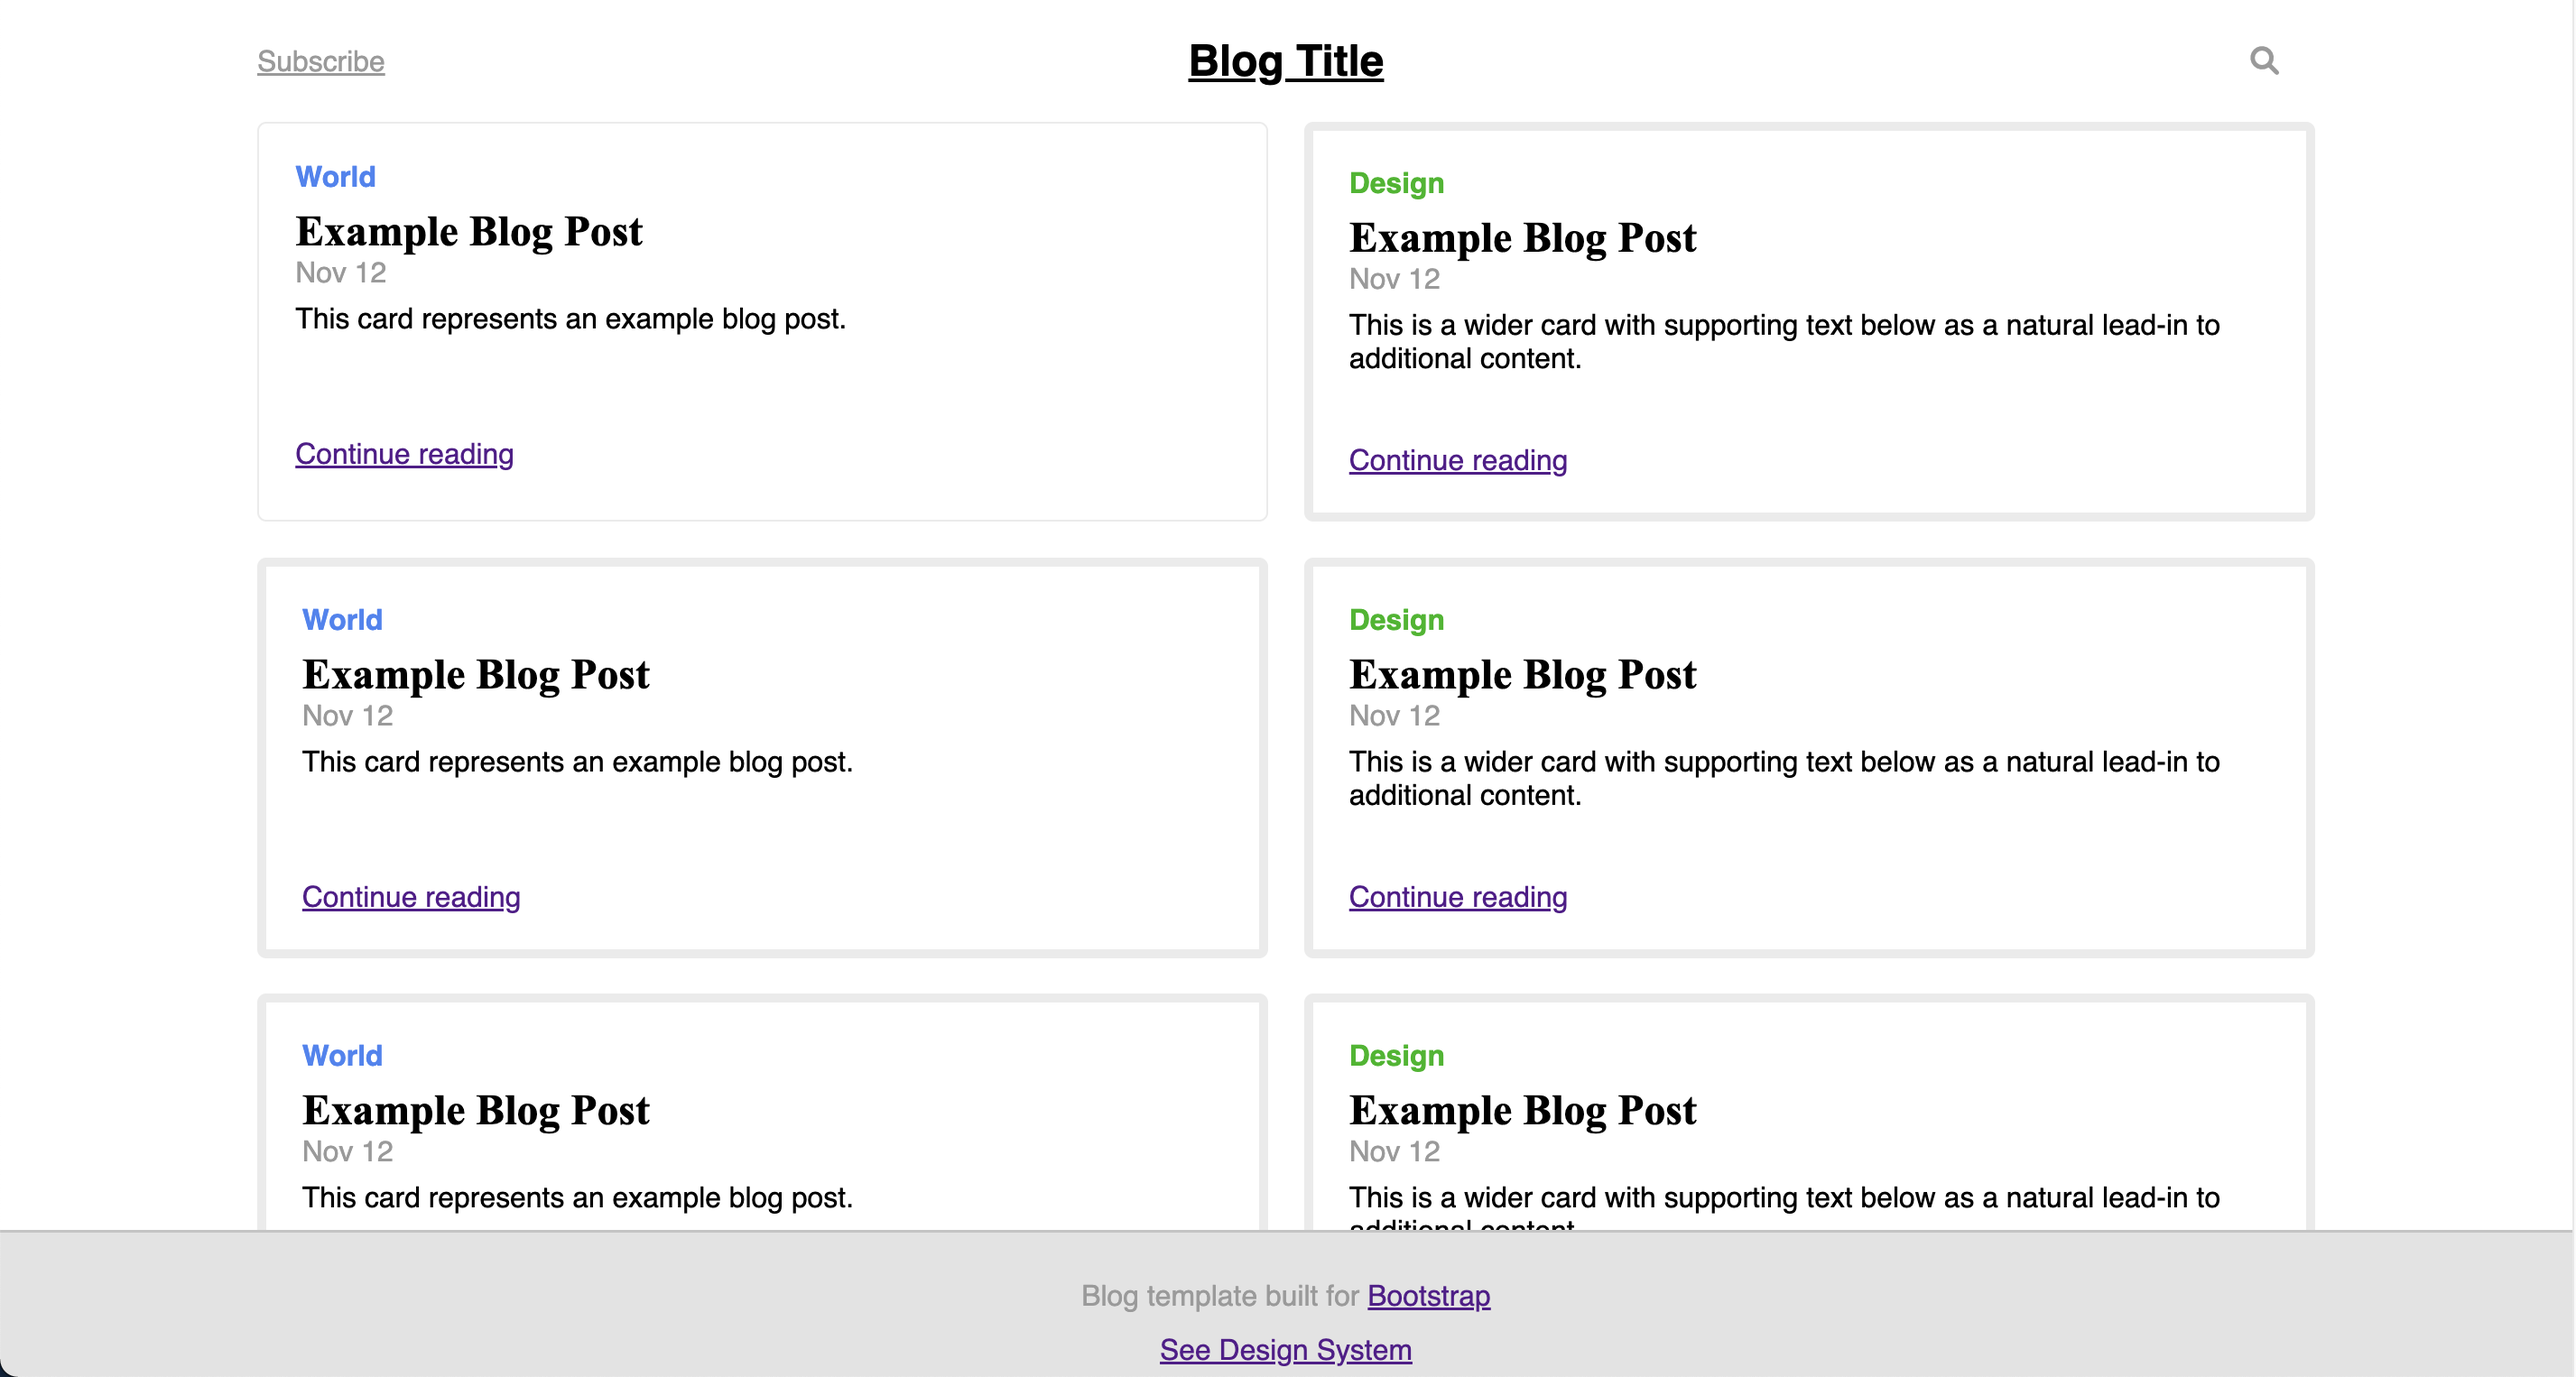
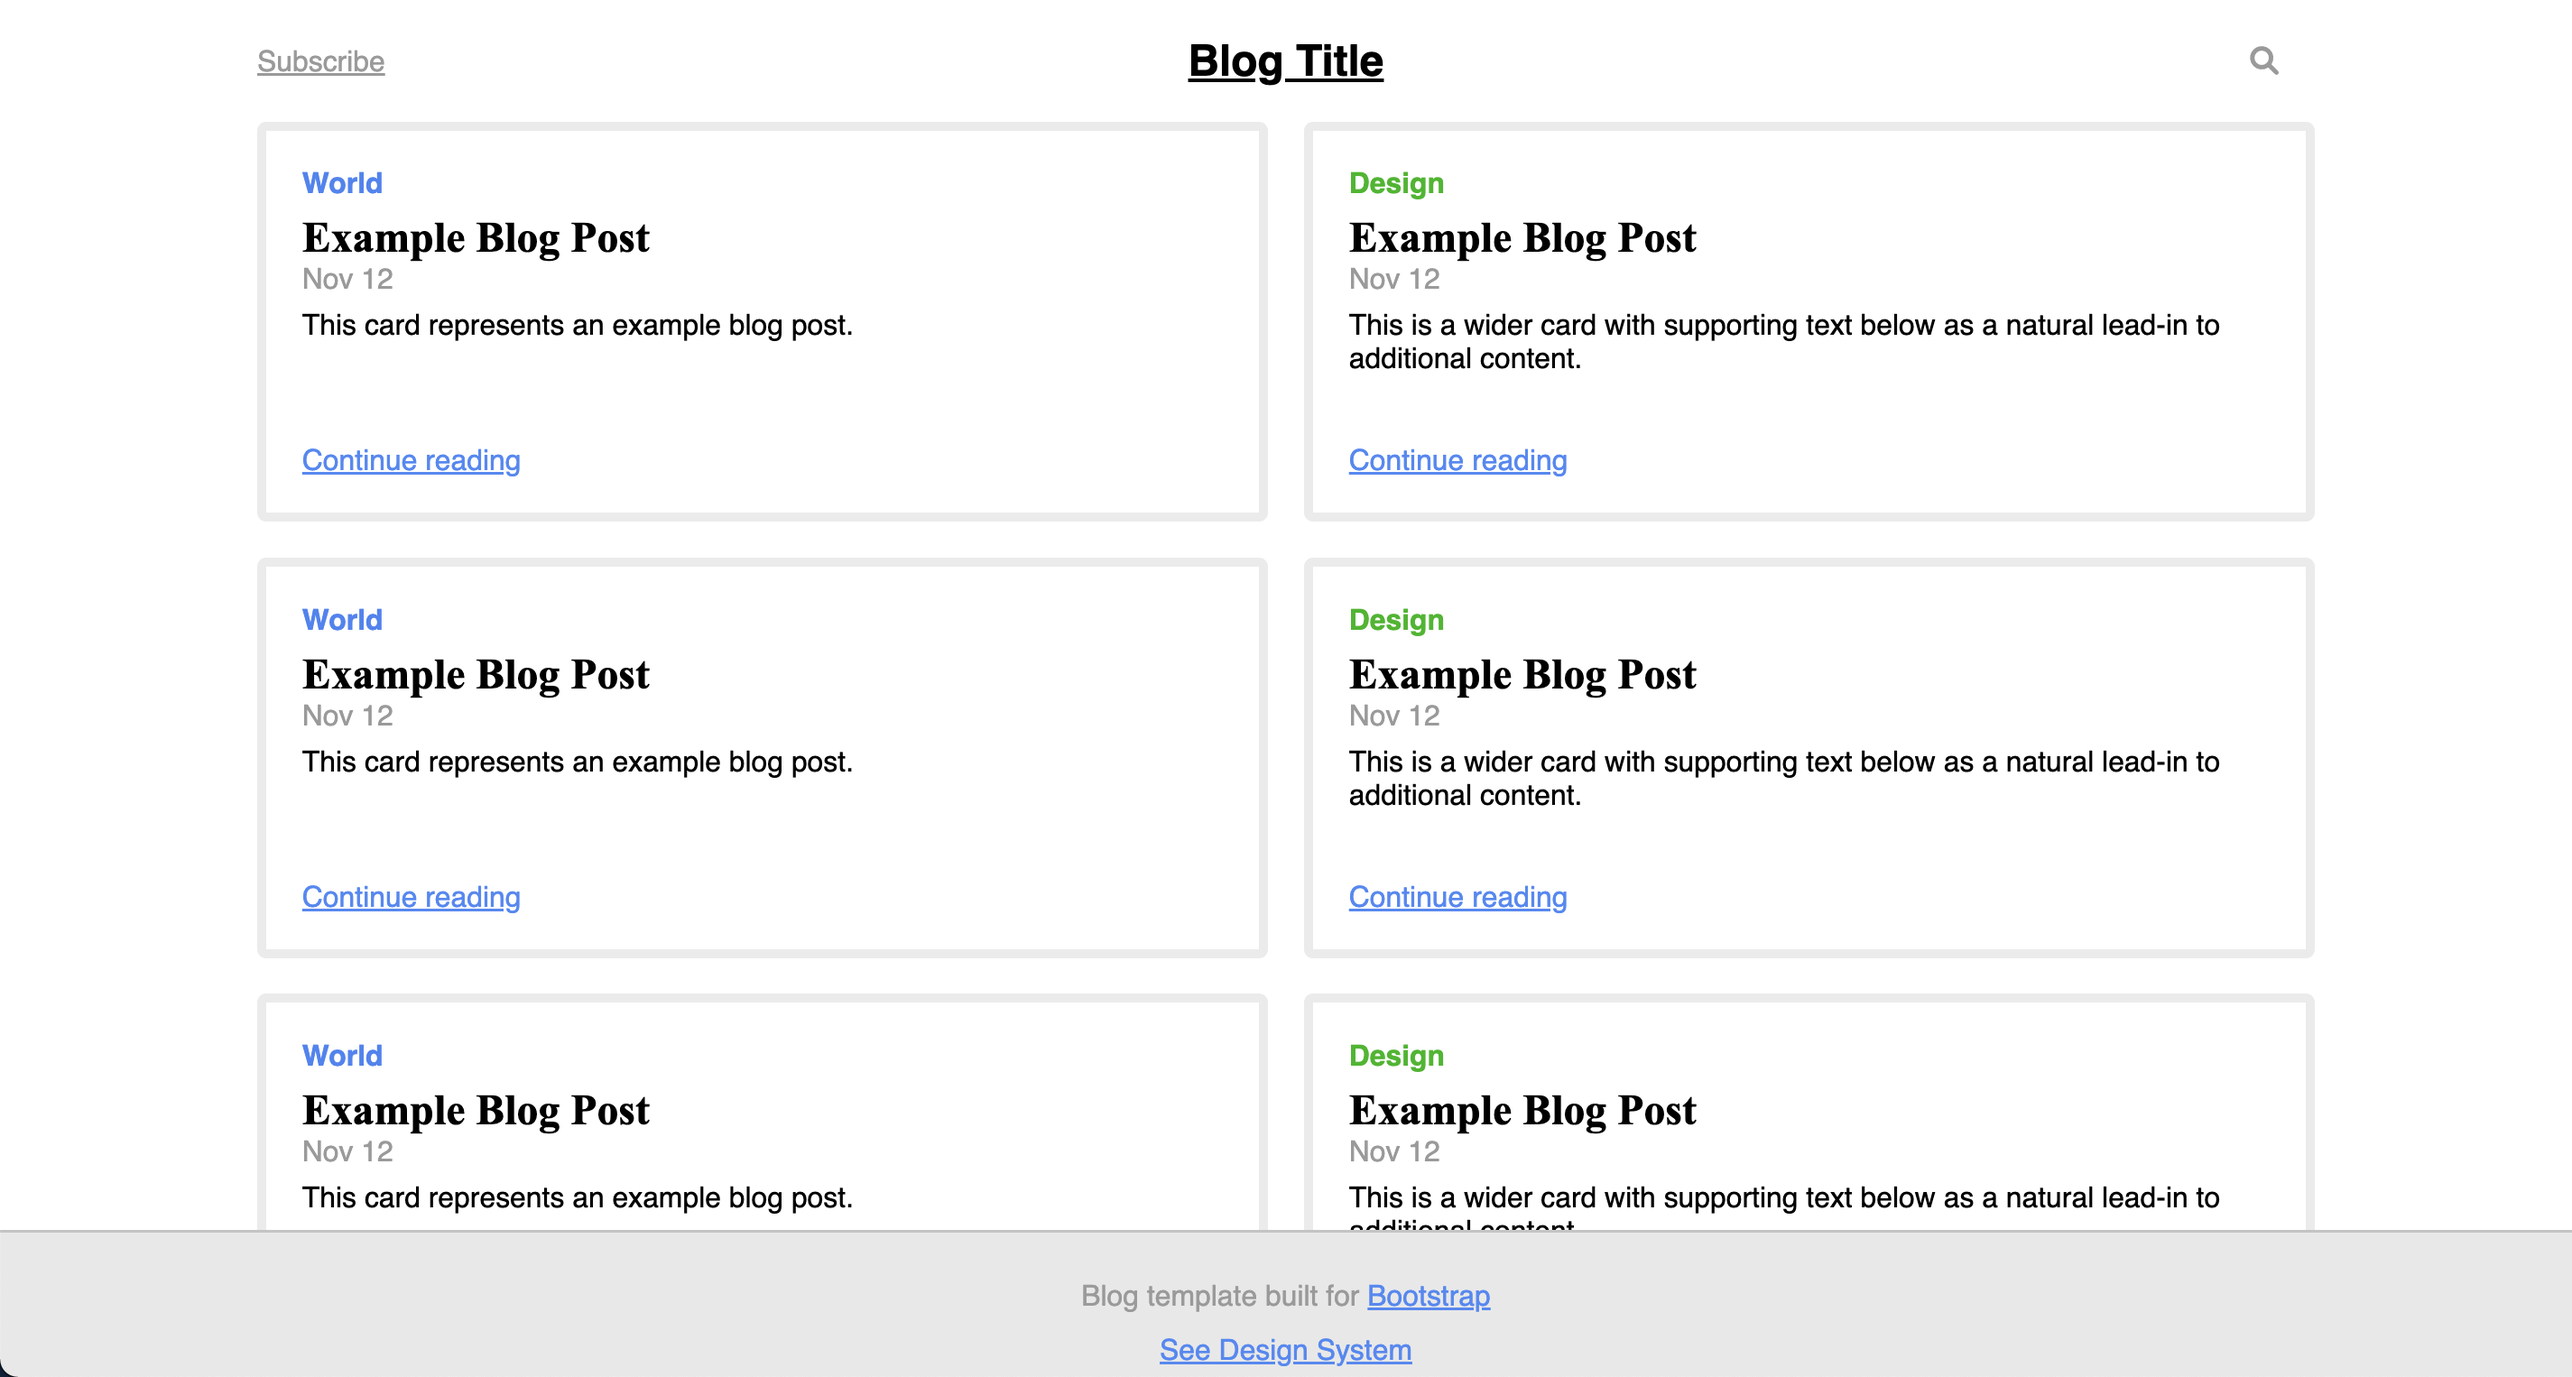
Minior changes

diff --git a/index.html b/index.html
@@ -12,18 +12,18 @@
     <header class="w-80 w-sm-90">
         <nav class="nav">
             <div class="nav__item">
-                <a class="text-gray" href="/">Subscribe</a>
+                <a class="text-gray" href="#">Subscribe</a>
             </div>
 
             <div class="nav__item text-center">
-                <a href="/" class="text-black">
+                <a href="#" class="text-black">
                     <h1>Blog Title</h1>
                 </a>
             </div>
             
 
             <div class="nav__item text-end pr-2">
-                <a class="text-gray" href="/">
+                <a class="text-gray" href="#">
                     <i class="fa-solid fa-magnifying-glass"></i>
                 </a>
             </div>
@@ -40,7 +40,7 @@
                     <p class="card__text mb-1">This card represents an example blog post.</p>
                 </div> 
 
-                <a href="/" class="card__link">Continue reading</a>
+                <a href="#" class="card__link">Continue reading</a>
             </div>
 
             <div class="card">
@@ -53,7 +53,7 @@
                 </div>
                 
 
-                <a href="/" class="card__link">Continue reading</a>
+                <a href="#" class="card__link">Continue reading</a>
             </div>
 
             <div class="card">
@@ -65,7 +65,7 @@
                     <p class="card__text mb-1">This card represents an example blog post.</p>
                 </div> 
 
-                <a href="/" class="card__link">Continue reading</a>
+                <a href="#" class="card__link">Continue reading</a>
             </div>
 
             <div class="card">
@@ -77,7 +77,7 @@
                     <p class="card__text mb-1">This is a wider card with supporting text below as a natural lead-in to additional content.</p>
                 </div>
 
-                <a href="/" class="card__link">Continue reading</a>
+                <a href="#" class="card__link">Continue reading</a>
             </div>
 
             <div class="card">
@@ -89,7 +89,7 @@
                     <p class="card__text mb-1">This card represents an example blog post.</p>
                 </div> 
 
-                <a href="/" class="card__link">Continue reading</a>
+                <a href="#" class="card__link">Continue reading</a>
             </div>
 
             <div class="card mb-5">
@@ -101,15 +101,15 @@
                     <p class="card__text mb-1">This is a wider card with supporting text below as a natural lead-in to additional content.</p>
                 </div>
 
-                <a href="/" class="card__link">Continue reading</a>
+                <a href="#" class="card__link">Continue reading</a>
             </div>
 
         </div>
     </section>
 
     <footer class="flex">
-        <p class="">Blog template built for <a href="/">Bootstrap</a></p>
-        <a href="/">See Design System</a>
+        <p class="">Blog template built for <a href="#">Bootstrap</a></p>
+        <a href="#">See Design System</a>
     </footer>
 </body>
 </html>

diff --git a/style.css b/style.css
@@ -1,5 +1,6 @@
 :root {
     --color-primary:#4285F4;
+    --color-link:#478af6;
     --color-secondary:rgb(1, 183, 1);
     --color-gray:rgb(154, 154, 154);
     --color-black:rgb(0, 0, 0);
@@ -93,6 +94,10 @@ nav .nav__item {
     border-radius: 5px;
 }
 
+.card a, footer a {
+    color: var(--color-link);
+}
+
 .card:hover {
     border: 1.2px solid rgba(94, 94, 94, 0.125);
 }
@@ -123,7 +128,7 @@ footer {
     left: 0;
     bottom: 0;
     width: 100%;
-    background-color: rgb(227, 227, 227);
+    background-color: rgb(232, 232, 232);
     color:var(--color-gray);
     text-align: center;
     line-height: 3rem;
